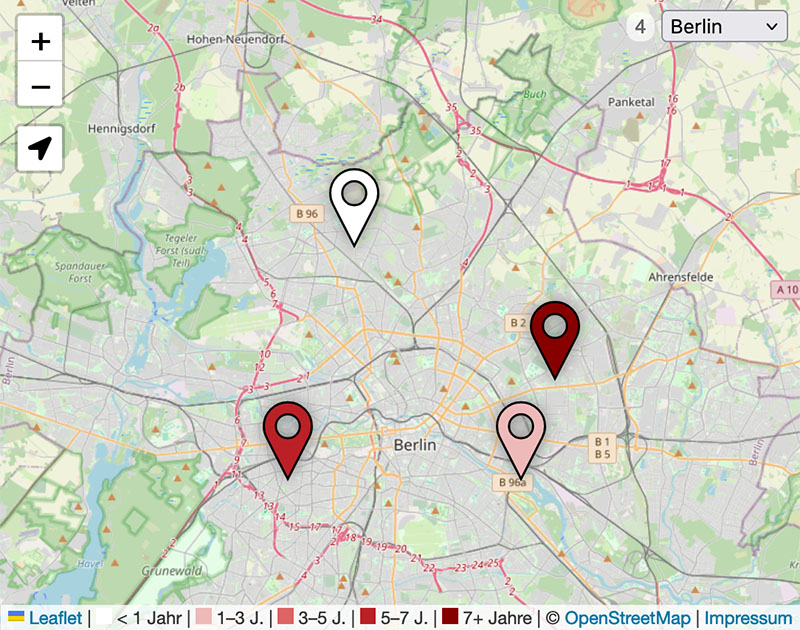
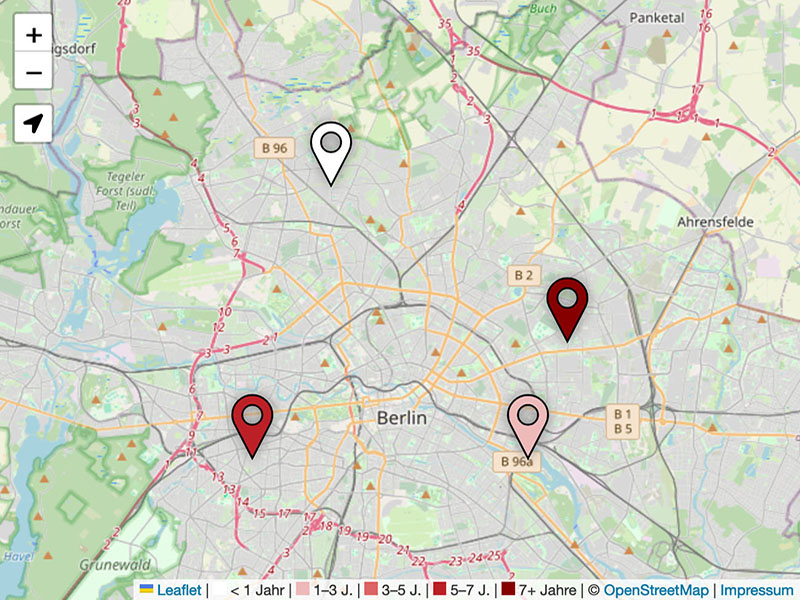
ref: remove multi-city support

diff --git a/frontend/script.js b/frontend/script.js
@@ -1,7 +1,6 @@
 const DATA_ROOT = '/data/';
 let MAP = null;
 let LAYER = null;
-let CITIES = {};
 let PLACES = {};
 const DEFAULT_CENTER = [51.2, 9];
 const DEFAULT_ZOOM = 6;
@@ -15,16 +14,9 @@ async function loadJson(url) {
     return await res.json();
 }
 
-async function loadCities() {
-    CITIES = {};
-    for (const city of await loadJson(DATA_ROOT + 'cities.json')) {
-        CITIES[city.id] = city;
-    }
-}
-
-async function loadCity(cityId) {
+async function loadData() {
     PLACES = {};
-    for (const place of await loadJson(DATA_ROOT + cityId + '/data.json')) {
+    for (const place of await loadJson(DATA_ROOT + 'data.json')) {
         if (since(place.until) > 0) {
             continue; // not vacant anymore
         }
@@ -36,15 +28,6 @@ async function loadCity(cityId) {
 // ---------------------
 //  Helper
 // ---------------------
-
-function getCityId(slug) {
-    for (const city of Object.values(CITIES)) {
-        if (city.slug === slug) {
-            return city.id;
-        }
-    }
-    return null;
-}
 
 function since(date) {
     if (!date) {
@@ -84,18 +67,6 @@ function closePopup(e) {
     setPlace(null)
 }
 
-function makeCityMarker(city) {
-    return L.marker(L.latLng(city.loc), {
-        pid: city.id,
-        title: city.name,
-        icon: makeIcon('pin pin-city'),
-    }).on('click', cityPinClick);
-}
-
-async function cityPinClick(pin) {
-    await showCity(pin.target.options.pid);
-}
-
 // ---------------------
 //  UI updates
 // ---------------------
@@ -112,14 +83,8 @@ function setPlace(placeId) {
         : place.since ? 'seit ' + place.since : '???';
     div.querySelector('#_desc').innerText = place.desc || '';
 
-    location.hash = location.hash.split('|')[0] + (hide ? '' : '|' + placeId);
+    location.hash = hide ? '' : placeId;
     document.title = document.title.split(' "', 1)[0] + (hide ? '' : ' "' + place.addr + '"');
-}
-
-function setCity(city) {
-    document.getElementById('city-select').value = city ? city.id : '';
-    location.hash = city ? city.slug : '';
-    document.title = document.title.split(' in ', 1)[0] + (city ? ' in ' + city.name : '');
 }
 
 function updateCounter() {
@@ -153,43 +118,7 @@ function initMap() {
     L.control.locate({ showPopup: false }).addTo(MAP);
 }
 
-function initCities() {
-    const select = document.getElementById('city-select');
-    while (select.options.length > 1) {
-        select.options.remove(1);
-    }
-    for (const city of Object.values(CITIES)) {
-        const opt = document.createElement('option');
-        opt.value = city.id;
-        opt.innerText = city.name;
-        select.add(opt);
-    }
-    select.hidden = false;
-}
-
-// ---------------------
-//  Interactive
-// ---------------------
-
-function showCityOverview() {
-    LAYER.clearLayers();
-    MAP.setView(DEFAULT_CENTER, DEFAULT_ZOOM);
-    setCity(null);
-    PLACES = {};
-    updateCounter();
-
-    for (const city of Object.values(CITIES)) {
-        makeCityMarker(city).addTo(LAYER);
-    }
-}
-
-async function showCity(cityId) {
-    const city = CITIES[cityId];
-    LAYER.clearLayers();
-    MAP.setView(city.loc, city.zoom);
-    setCity(city);
-    await loadCity(cityId);
-
+function initPins() {
     var bounds = L.latLngBounds();
     for (const place of Object.values(PLACES)) {
         const marker = makeMarker(place).addTo(LAYER);
@@ -203,23 +132,14 @@ async function showCity(cityId) {
 
 async function start() {
     initMap();
-    await loadCities();
-    initCities();
+    await loadData();
+    initPins();
+    // LAYER.clearLayers();
+    // MAP.setView(city.loc, city.zoom);
 
-    const [city_slug, place_id] = location.hash.substring(1).split('|');
-    const city_id = city_slug ? getCityId(city_slug) : null;
-    if (city_id) {
-        await showCity(city_id);
-        if (place_id) {
-            setPlace(place_id);
-        }
-    } else {
-        const available_cities = Object.keys(CITIES);
-        if (available_cities.length === 1) {
-            await showCity(available_cities[0]);
-        } else {
-            showCityOverview();
-        }
+    const place_id = location.hash.substring(1);
+    if (place_id) {
+        setPlace(place_id);
     }
     document.getElementById('loading').hidden = true;
 }

diff --git a/frontend/index.html b/frontend/index.html
@@ -31,12 +31,7 @@
       <img src="" alt="Kein Bild" />
     </div>
   </div>
-  <div id="overlay">
-    <span id="city-counter" hidden></span>
-    <select id="city-select" hidden onchange="this.value ? showCity(this.value): showCityOverview()">
-      <option value="">-----</option>
-    </select>
-  </div>
+  <div id="overlay"><span id="city-counter" hidden></span></div>
   <div id="map"></div>
   <script defer>start()</script>
 </body>

diff --git a/frontend/style.css b/frontend/style.css
@@ -32,7 +32,6 @@ html, body {
   color: #666;
   padding: 4px 6px 2px;
   border-radius: 8px;
-  font-size: smaller;
 }
 
 .pin svg {
@@ -96,9 +95,6 @@ html, body {
   }
 }
 
-.pin-city {
-  fill-opacity: 0;
-}
 .fc0 {
   fill: #FFF;
 }

diff --git a/backend/app/models/place.py b/backend/app/models/place.py
@@ -1,8 +1,10 @@
+from django.conf import settings
 from django.db import models
 from django.db.models.signals import post_delete
 from django.dispatch import receiver
 
 import os
+import json
 from datetime import date
 
 from map_location.fields import LocationField
@@ -10,27 +12,19 @@ from map_location.fields import LocationField
 from app.fields import MonthField
 from common.form.img_with_preview import ThumbnailImageField
 
-import typing
-if typing.TYPE_CHECKING:
-    from app.models.city import City
-
 
 def overwrite_img_upload(instance: 'Place', filename: str):
     id = instance.pk or (Place.objects.count() + 1)
-    path = instance.city.data_path / f'{id}.jpg'
+    path = settings.MEDIA_ROOT / 'img' / f'{id}.jpg'
 
     if path.is_file():
         os.remove(path)
-    return f'{instance.city.data_url}/{id}.jpg'
+    return f'img/{id}.jpg'
 
 
 class Place(models.Model):
     created = models.DateTimeField('Erstellt', auto_now_add=True)
     updated = models.DateTimeField('Geändert', auto_now=True)
-
-    city: 'models.ForeignKey[City]' = models.ForeignKey(
-        'City', on_delete=models.CASCADE, related_name='places',
-        verbose_name='Stadt')
 
     address = models.CharField('Adresse', max_length=100)
     img = ThumbnailImageField('Bild', blank=True, null=True,
@@ -65,7 +59,7 @@ class Place(models.Model):
 
     def save(self, *args, **kwargs):
         rv = super().save(*args, **kwargs)
-        self.city.update_json()
+        Place.update_json()
         return rv
 
     def asJson(self) -> 'dict[str, str|list[float]|None]':
@@ -80,7 +74,13 @@ class Place(models.Model):
                     round(self.location.long, 6)] if self.location else None,
         }
 
+    @staticmethod
+    def update_json():
+        with open(settings.MEDIA_ROOT / 'data.json', 'w') as fp:
+            json.dump([x.asJson() for x in Place.objects.all()
+                       if x.location and x.isVacant], fp)
+
 
 @receiver(post_delete, sender=Place)
 def on_delete_Place(sender, instance: 'Place', using, **kwargs):
-    instance.city.update_json()
+    Place.update_json()

diff --git a/backend/app/admin.py b/backend/app/admin.py
@@ -1,7 +1,7 @@
 from django.contrib import admin
 from django.contrib.auth.models import Group  # , User
 
-from app.models import City, Place
+from app.models import Place
 
 # admin.site.register(Place, )
 
@@ -21,21 +21,8 @@ admin.site.unregister(Group)
 # App adjustments
 #############################
 
-@admin.register(City)
-class CityAdmin(admin.ModelAdmin):
-    list_display = ['name', 'place_count', 'center', 'zoom']
-
-    def get_readonly_fields(self, request, obj=None):
-        return ['name'] if obj else []
-
-    @admin.display(description='Orte')
-    def place_count(self, instance: 'City'):
-        return instance.places.count()
-
-
 @admin.register(Place)
 class PlaceAdmin(admin.ModelAdmin):
-    list_display = ['address', 'city', 'since', 'until', 'created', 'updated']
-    list_filter = ['city']
+    list_display = ['address', 'since', 'until', 'created', 'updated']
     search_fields = ['address', 'description']
     ordering = ['-updated']

diff --git a/backend/app/migrations/0002_single_city.py b/backend/app/migrations/0002_single_city.py
@@ -1,0 +1,22 @@
+# Generated by Django 4.2.13 on 2024-07-27 23:43
+
+from django.db import migrations
+
+
+class Migration(migrations.Migration):
+
+    dependencies = [
+        ('app', '0001_initial'),
+    ]
+
+    operations = [
+        migrations.RemoveField(
+            model_name='place',
+            name='city',
+        ),
+        migrations.DeleteModel(
+            name='City',
+        ),
+        migrations.RunSQL(
+            "UPDATE app_place SET img = 'img/'||id||'.jpg' WHERE img != '';"),
+    ]

diff --git a/backend/app/models/__init__.py b/backend/app/models/__init__.py
@@ -1,2 +1,1 @@
-from .city import City  # noqa: F401
 from .place import Place  # noqa: F401

diff --git a/README.md b/README.md
@@ -12,9 +12,3 @@ Start container with `docker-compose up -d` and create admin user (first-run):
 ```sh
 docker-compose exec app python manage.py createsuperuser --email ''
 ```
-
-Optionally, create an initial set of cities:
-
-```sh
-docker-compose exec app python manage.py loaddata initial_cities.json
-```
